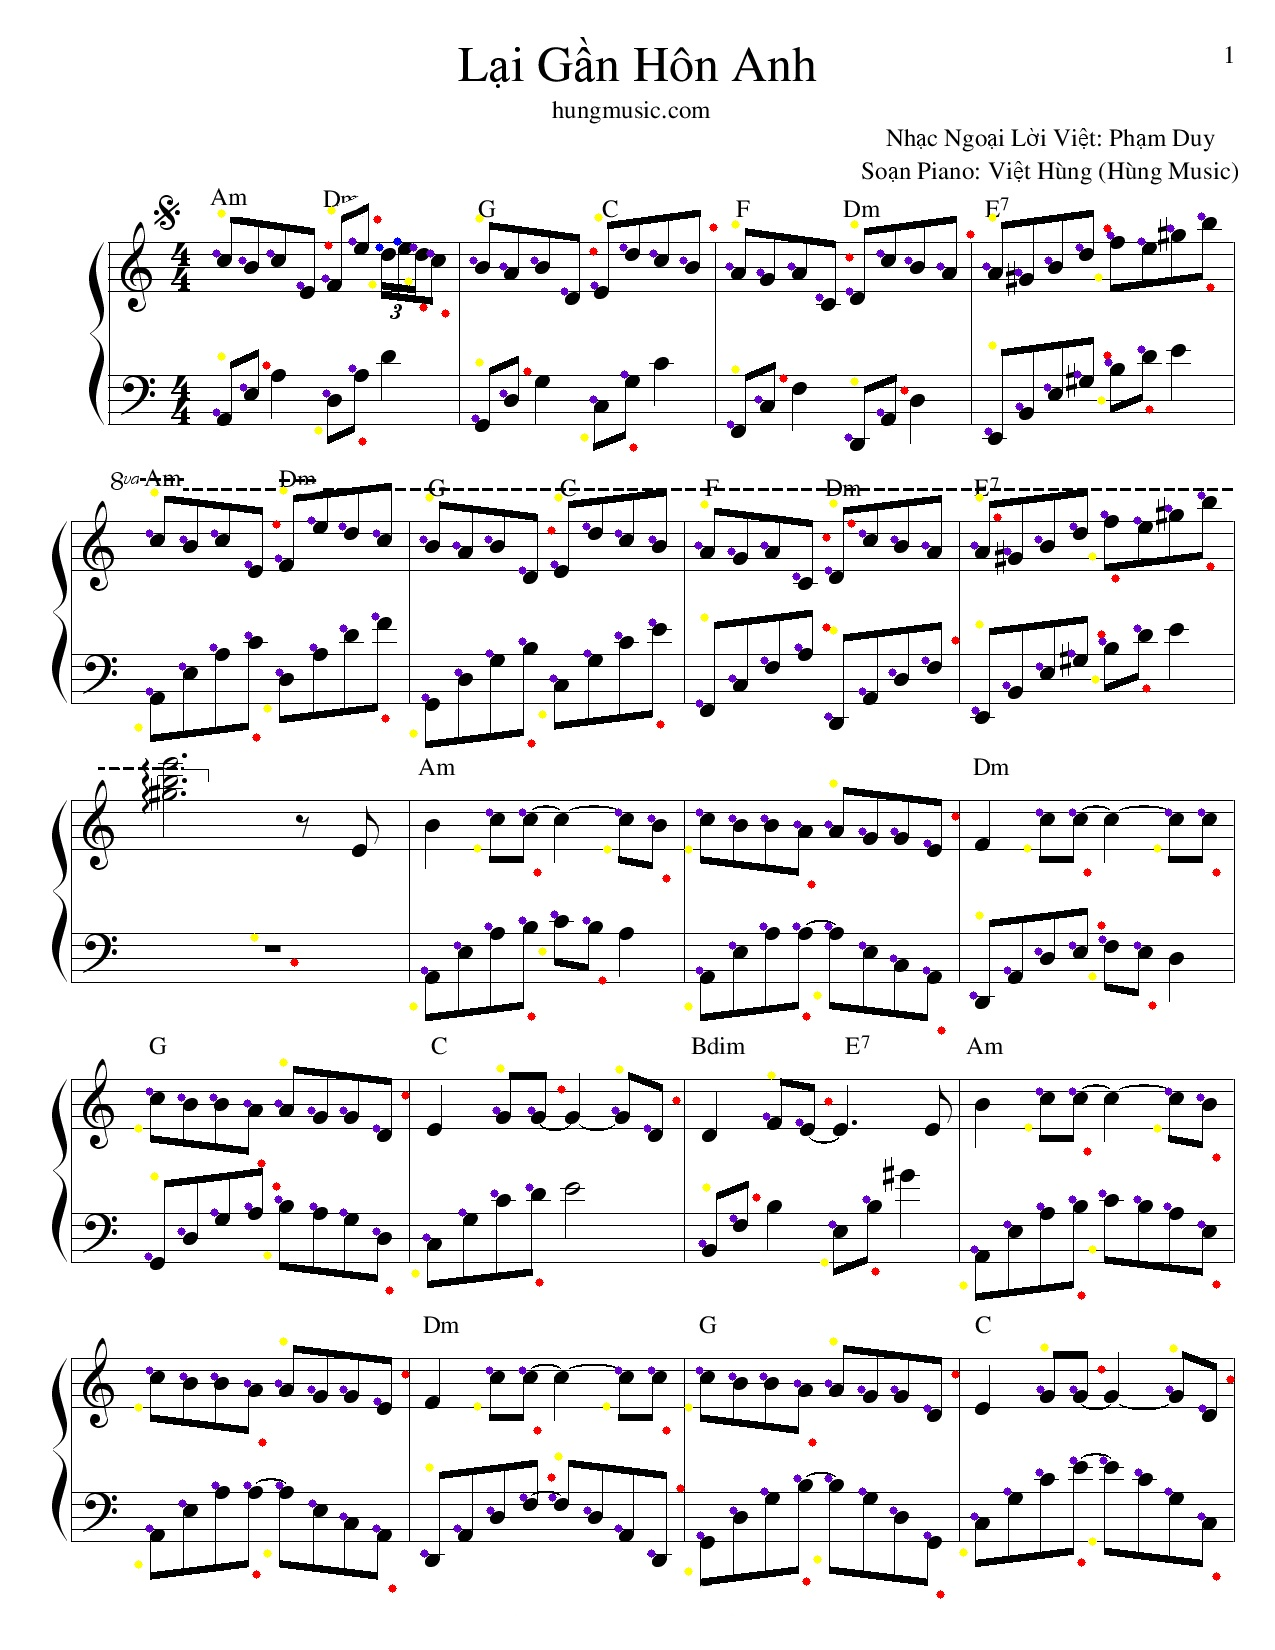
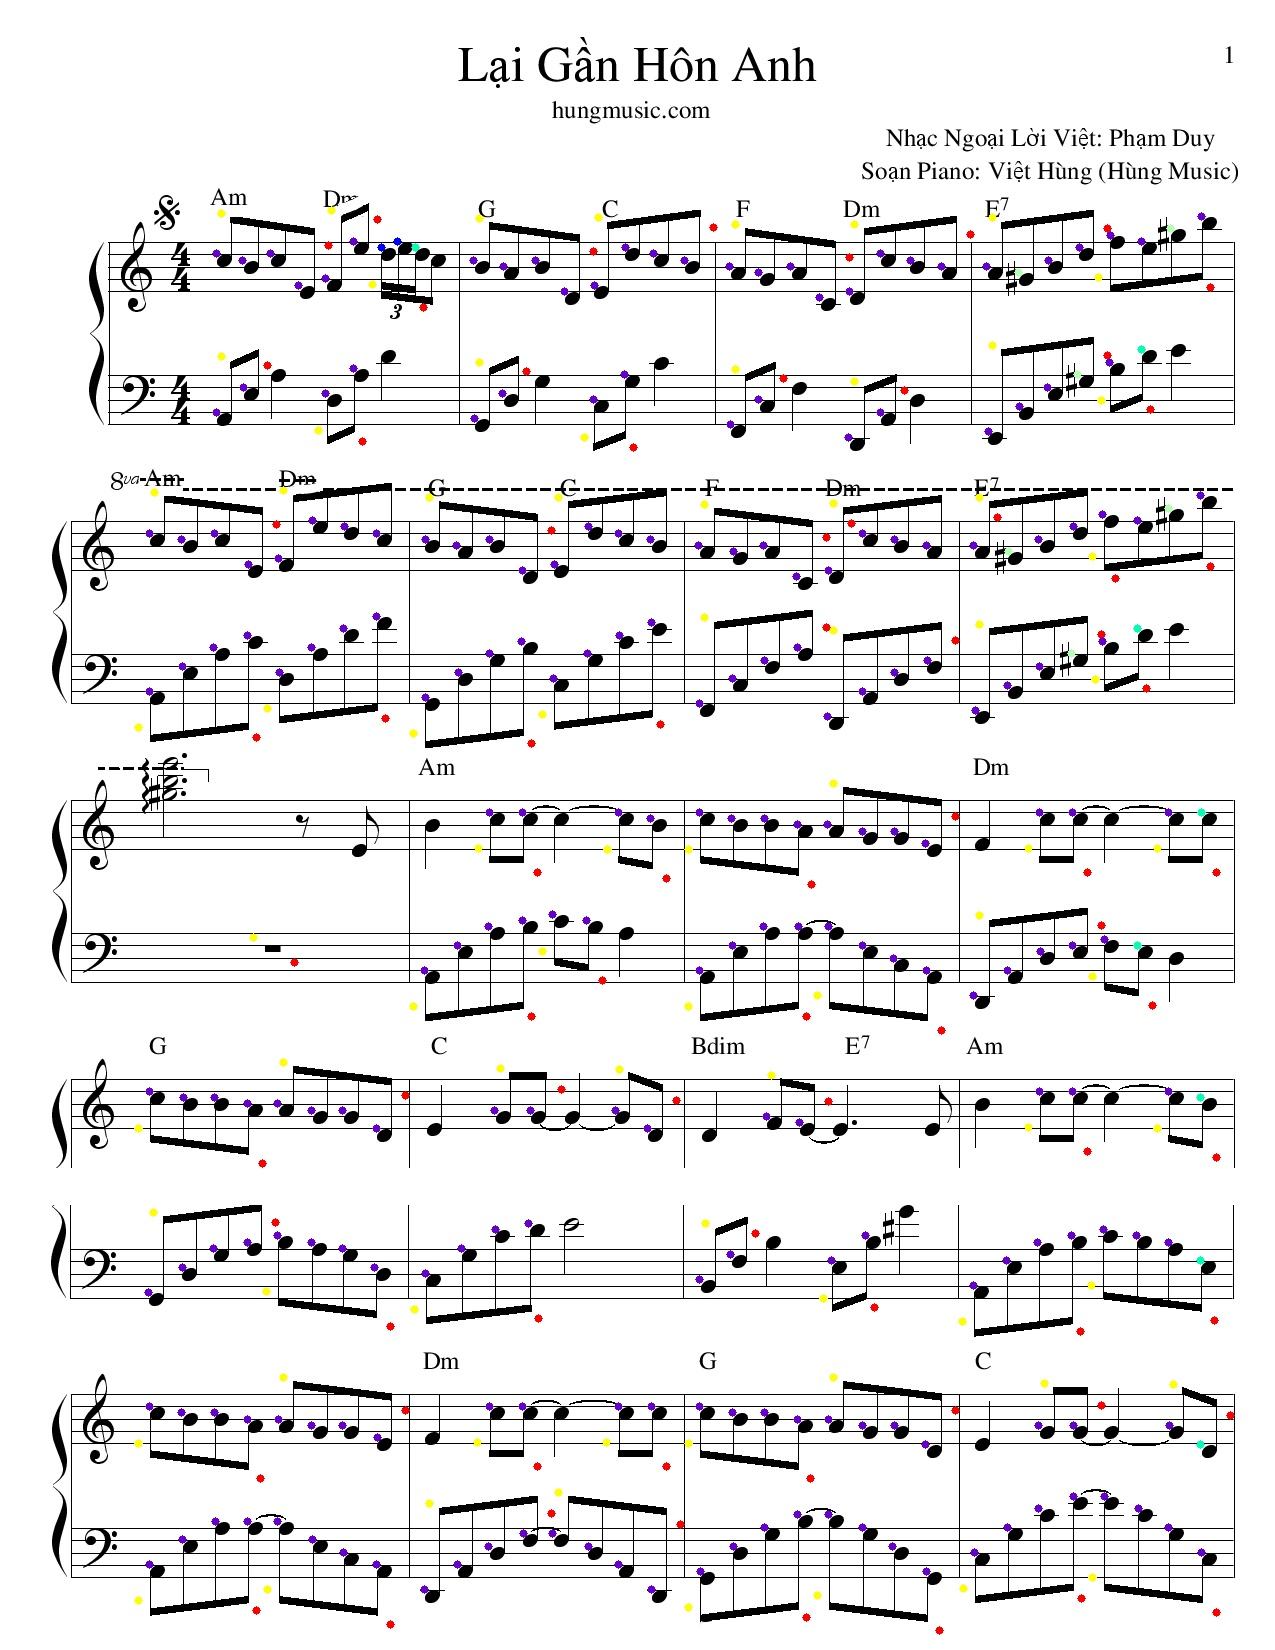
update sharp

Changed region(s): [[0.0306, 0.7109, 0.9788, 0.9891]]

diff --git a/MusicSheet.py b/MusicSheet.py
@@ -29,6 +29,13 @@ chordsType = ClassifiedTypeChord.inputLabel(feature_type,color,removal,img)
 for i in range(len(chordsType)):
     print(chordsType[i].type,chordsType[i].sub_type," : ",chordsType[i].pt1 )
 
+onlySharp = []
+for i in range(len(chordsType)):
+    if(chordsType[i].type ==5):
+        onlySharp.append(chordsType[i])
+
+print("Only Sharp: ",onlySharp)
+
 onlyChord = []
 for i in range(len(chordsType)):
     if(chordsType[i].type==1 or chordsType[i].type==4 ):
@@ -38,18 +45,22 @@ onlySymbol = []
 for i in range(len(chordsType)):
     if(chordsType[i].type==2 or chordsType[i].type==3 ):
         onlySymbol.append(chordsType[i])
-
-
+#
+#
 CreateStaff.groupNoteToStaff(onlyChord,staffs)
 CreateStaff.groupSymbolToStaff(onlySymbol,staffs)
+CreateStaff.groupSymbolToStaff(onlySharp,staffs)
 
-
-# print("Sucessfully write result....")
 #
+#
+# # print("Sucessfully write result....")
+# #
 CombineOpenClose.getCombinedType(staffs, img)
+for i in range(len(staffs)):
+    for j in range(len(staffs[i].chords)):
+        print("Staff",i," chord ",j,staffs[i].chords[j].sharp)
 
-for i in range(len(staffs[0].chords)):
-    print(staffs[0].chords[i].type)
+
 #
 #
 # pt_clef1, pt_clef2 = ClassifiedTypeChord.addFeature(clef_sol,removal)
@@ -70,49 +81,49 @@ for i in range(len(staffs[0].chords)):
 # #
 # #
 # #
-notes_height = ['E5', 'D5', 'C5', 'B4', 'A4', 'G4', 'F4','E4', 'D4', 'C4', 'B3', 'A3', 'G3', 'F3','E3', 'D3', 'C3']#, 'B', 'A', 'G', 'F','E', 'D', 'C', 'B', 'A', 'G', 'F']
-notes_height_1 = ['E5', 'F5', 'G5', 'A5', 'B5', 'C6', 'D6', 'E6', 'F6','G6']
+# notes_height = ['E5', 'D5', 'C5', 'B4', 'A4', 'G4', 'F4','E4', 'D4', 'C4', 'B3', 'A3', 'G3', 'F3','E3', 'D3', 'C3']#, 'B', 'A', 'G', 'F','E', 'D', 'C', 'B', 'A', 'G', 'F']
+# notes_height_1 = ['E5', 'F5', 'G5', 'A5', 'B5', 'C6', 'D6', 'E6', 'F6','G6']
+# #
+# staffline_dist = lines[1] - lines[0] # blank size between 2 lines in one staff
+# print("StaffLine distance: ",staffline_dist)
 #
-staffline_dist = lines[1] - lines[0] # blank size between 2 lines in one staff
-print("StaffLine distance: ",staffline_dist)
-
-def RoundNumber(num):
-    sign = num / (abs(num))
-    standard = (int(abs(num)) + 0.5)
-    if abs(num) > standard:
-        return (int(num) + int(sign))
-    else:
-        return (int(num))
-
-
-height = []
-for k in range(len(staffs)):
-    temp = []
-    for chord in (staffs[k].chords):
-        anchorPoint = chord.pt1
-        temp.append(RoundNumber((-staffs[k].lines[0] + anchorPoint[1])/(staffline_dist/2)))
-    height.append(temp)
-#print(height)
-
-result = []
-count = 0
-for i in height:
-    temp = []
-    for j in i:
-        count+=1
-        print(count)
-        if j <0:
-            print(abs(j))
-            print(notes_height_1[abs(j)])
-            temp.append(notes_height_1[abs(j)])
-        else:
-            # print(abs(j))
-            # print(j)
-            print(notes_height[j])
-            temp.append(notes_height[j])
-    result.append(temp)
-for i in result:
-    print(i)
+# def RoundNumber(num):
+#     sign = num / (abs(num))
+#     standard = (int(abs(num)) + 0.5)
+#     if abs(num) > standard:
+#         return (int(num) + int(sign))
+#     else:
+#         return (int(num))
+#
+#
+# height = []
+# for k in range(len(staffs)):
+#     temp = []
+#     for chord in (staffs[k].chords):
+#         anchorPoint = chord.pt1
+#         temp.append(RoundNumber((-staffs[k].lines[0] + anchorPoint[1])/(staffline_dist/2)))
+#     height.append(temp)
+# #print(height)
+#
+# result = []
+# count = 0
+# for i in height:
+#     temp = []
+#     for j in i:
+#         count+=1
+#         print(count)
+#         if j <0:
+#             print(abs(j))
+#             print(notes_height_1[abs(j)])
+#             temp.append(notes_height_1[abs(j)])
+#         else:
+#             # print(abs(j))
+#             # print(j)
+#             print(notes_height[j])
+#             temp.append(notes_height[j])
+#     result.append(temp)
+# for i in result:
+#     print(i)
 #
 cv2.imshow("IMG",img)
 cv2.waitKey(0)

diff --git a/CombineOpenClose.py b/CombineOpenClose.py
@@ -1,4 +1,5 @@
 import cv2
+import ChordType
 def getCombinedType(staffs,img):
     # 2 cases: Single Open in 5 type of double staff.
     for z in range(10):
@@ -13,6 +14,9 @@ def getCombinedType(staffs,img):
         for i in range(len(staff1.symbols)):
             StaffSymbol.append(staff1.symbols[i])
 
+        #
+        sharp = getArrayType(StaffSymbol,5,None)
+        print("Size of Sharp in Staff",z,": ",len(sharp))
 
         singleOpen = getArrayType(StaffSymbol,3,2)
         singleClose = getArrayType(StaffSymbol, 3, 1)
@@ -25,8 +29,21 @@ def getCombinedType(staffs,img):
 
 
         black_chord = getArrayType(StaffChord,1,None)
+        white_chord = getArrayType(StaffChord,4,None)
         print(len(black_chord))
 
+        # update sharp to chords:
+
+        for i in range(len(sharp)):
+            chordBlack = findSingleSymbolInChord(black_chord,sharp[i],1)
+            chordWhite = findSingleSymbolInChord(white_chord, sharp[i], 1)
+            print(chordBlack)
+            # print(chord)
+            if(isinstance(chordBlack,ChordType.Chord)):
+                chordBlack.sharp = True
+            if (isinstance(chordWhite, ChordType.Chord)):
+                chordWhite.sharp = True
+        print("Single Open",len(singleOpen))
         for i in range(len(singleOpen)):
             chords,result_close = findCoupleFromOpen(singleOpen[i],singleClose,doubleOpen, black_chord)
             print("Removed chords: ",len(chords))
@@ -86,7 +103,21 @@ def removeElementFromArray(array,element):
             array.pop(j)
             break
 
+def findSingleSymbolInChord(chord, symbol, option=1):
+    # option 1 : find note in the right most hand side.
+    # option -1 : find note in the left most hand side.
 
+    xSymbol = int((symbol.pt1[0] + symbol.pt2[0])/2)
+    count = 20
+    while count>0:
+        for i in range(len(chord)):
+            xChord = int((chord[i].pt1[0] + chord[i].pt2[0]) / 2)
+            if xSymbol== xChord:
+                print(chord[i].pt1[0])
+                return chord[i]
+                break
+        xSymbol+=option
+        count-=1
 
 def findCoupleFromOpen(open, array1, array2,black_chord):
     result_close = open

diff --git a/CreateStaff.py b/CreateStaff.py
@@ -24,24 +24,20 @@ def groupNoteToStaff(chords, staffs, threshhold=5):
         staff = []
         for chord in chords:
             anchorPoint = tuple(map(lambda i, j: (i + j)/2, chord.pt1, chord.pt2))
-            print(anchorPoint, staffs[k].begin_y,staffs[k].end_y)
             if(anchorPoint[1]>=staffs[k].begin_y-threshhold and anchorPoint[1]<=staffs[k].end_y+threshhold):
                 staff.append(chord)
-            else:
-                print("Not insert")
         staff.sort(key=lambda chord: chord.pt1[0], reverse=False)
         staffs[k].appendChord(staff)
 
 def groupSymbolToStaff(symbols, staffs, threshhold=5):
     for k in range(len(staffs)):
-        staff = []
+        staff = staffs[k].symbols
         for symbol in symbols:
             anchorPoint = tuple(map(lambda i, j: (i + j)/2, symbol.pt1, symbol.pt2))
-            print(anchorPoint, staffs[k].begin_y,staffs[k].end_y)
             if(anchorPoint[1]>=staffs[k].begin_y-threshhold and anchorPoint[1]<=staffs[k].end_y+threshhold):
                 staff.append(symbol)
-            else:
-                print("Not insert")
-        staff.sort(key=lambda chord: chord.pt1[0], reverse=False)
+        staff.sort(key=lambda symbol: symbol.pt1[0], reverse=False)
+        for i in range(len(staff)):
+            print(k, " - ",staff[i].type)
         staffs[k].appendSymbol(staff)
 

diff --git a/ChordType.py b/ChordType.py
@@ -8,9 +8,15 @@ class Chord:
         self.pt1 = pt1
         self.pt2 = pt2
         self.type = type
+        self.sharp = False
+        self.flat = False
         self.sub_type = sub_type
     def getInfo(self):
         return str(self.type)+"_"+str(self.sub_type)+"-"+str(self.pt1)+"-"+str(self.pt2)
+    def updateSharp(self, option):
+        self.sharp = option
+    def updateFlat(self, option):
+        self.flat = option
 
 class Staff:
     def __init__(self,begin_y, end_y, lines):
@@ -35,12 +41,14 @@ black_chord = ChordType("black_chord")
 
 white_chord = ChordType("white_chord")
 
+sharp = ChordType("sharp")
+
 single_close = ChordType("single_close")
 single_open = ChordType("single_open")
 
 single = ChordType("single",[single_close,single_open])
 
-root = ChordType("",[black_chord,double,single,white_chord])
+root = ChordType("",[black_chord,double,single,white_chord,sharp])
 
 
 

diff --git a/test.py b/test.py
@@ -1,11 +1,2 @@
-def removeArrayFromArray(array1):
-    print(array1)
-    array1.pop(0)
-    print(array1)
-    return array1
-
-
-array1 = [1,2,3,4,5,6,7]
-
-array3 = removeArrayFromArray(array1)
-print(array3)
+for i in range(0):
+    print("Something")
